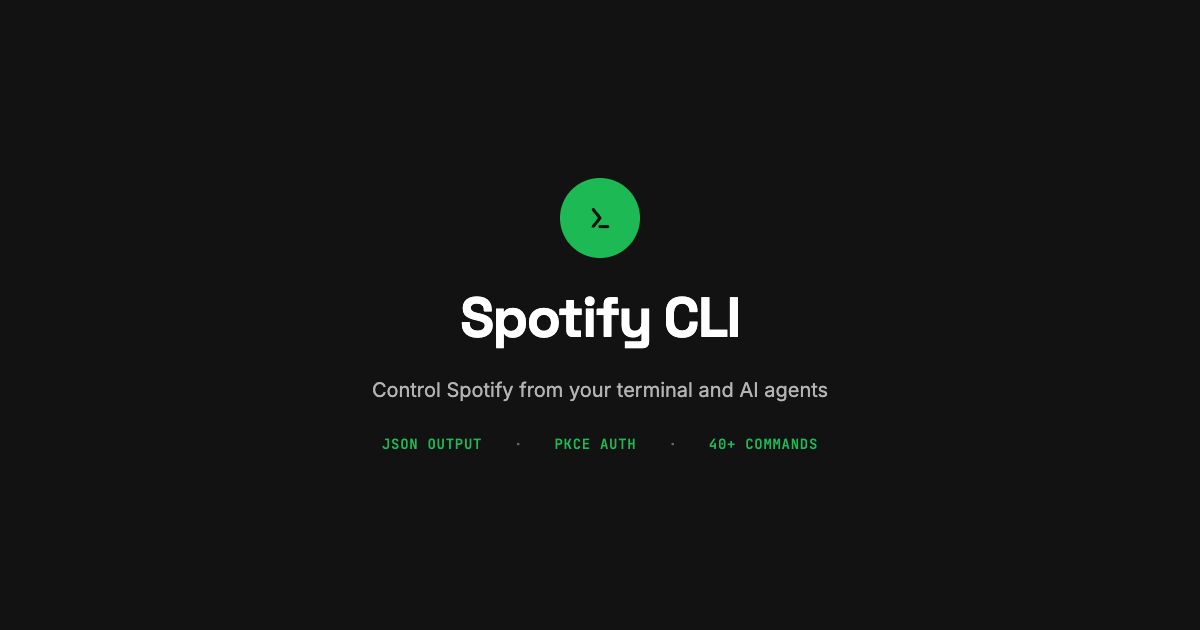
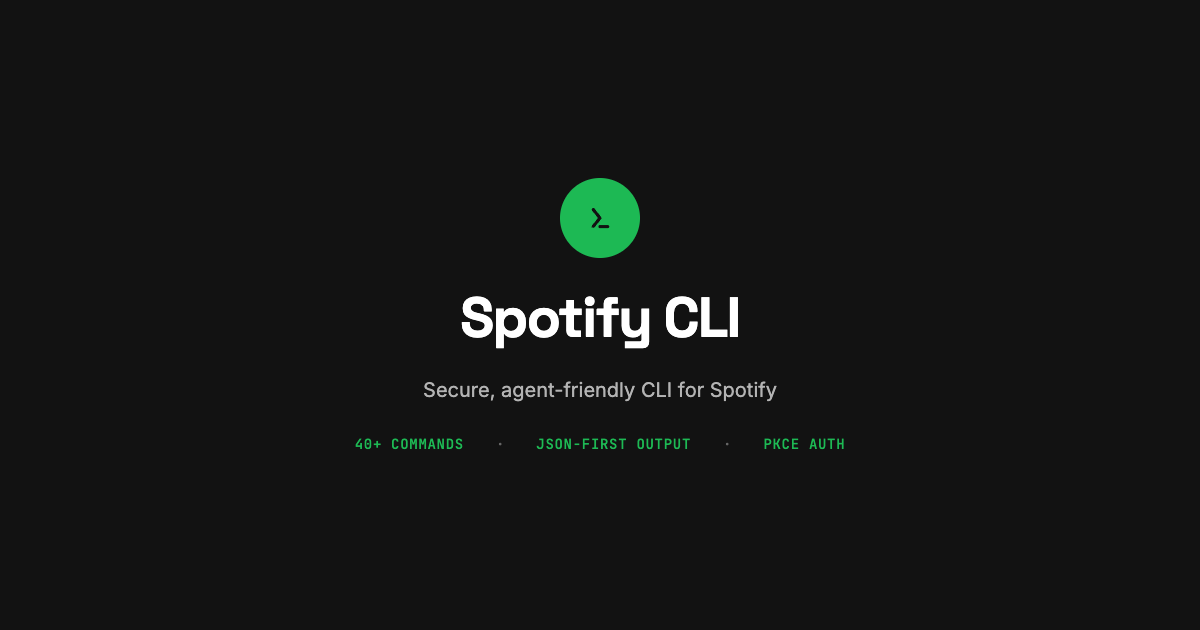
docs: update OG image and meta copy
Headline: "Secure, agent-friendly CLI for Spotify"
Features: 40+ Commands, JSON-First Output, PKCE Auth

Changed region(s): [[0.3083, 0.6032, 0.7092, 0.6333], [0.4317, 0.6937, 0.7092, 0.7238], [0.2775, 0.6937, 0.4008, 0.7238]]

diff --git a/docs/.vitepress/config.ts b/docs/.vitepress/config.ts
@@ -8,11 +8,11 @@ export default defineConfig({
     ['link', { rel: 'icon', type: 'image/svg+xml', href: '/favicon.svg' }],
     ['meta', { property: 'og:type', content: 'website' }],
     ['meta', { property: 'og:title', content: 'Spotify CLI' }],
-    ['meta', { property: 'og:description', content: 'Control Spotify from your terminal and AI agents' }],
+    ['meta', { property: 'og:description', content: 'Secure, agent-friendly CLI for Spotify' }],
     ['meta', { property: 'og:image', content: 'https://spotify-cli.zach.dev/og-image.png' }],
     ['meta', { name: 'twitter:card', content: 'summary_large_image' }],
     ['meta', { name: 'twitter:title', content: 'Spotify CLI' }],
-    ['meta', { name: 'twitter:description', content: 'Control Spotify from your terminal and AI agents' }],
+    ['meta', { name: 'twitter:description', content: 'Secure, agent-friendly CLI for Spotify' }],
     ['meta', { name: 'twitter:image', content: 'https://spotify-cli.zach.dev/og-image.png' }],
     ['link', { rel: 'preconnect', href: 'https://fonts.googleapis.com' }],
     ['link', { rel: 'preconnect', href: 'https://fonts.gstatic.com', crossorigin: '' }],
